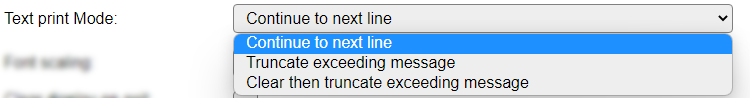
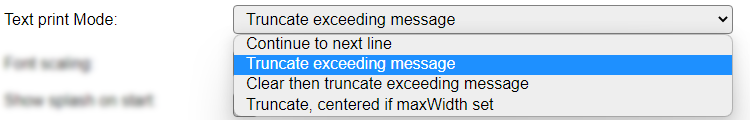
[P095] Update documentation

diff --git a/docs/source/Plugin/P095.rst b/docs/source/Plugin/P095.rst
@@ -112,6 +112,7 @@ Available options:
 * *Continue to next line* Simply 'prints' all text to the display, with automatic overflow to the next line(s) if the text doesn't fit on the current line.
 * *Truncate exceeding message* Display the provided message, but any excess at the right border of the display is discarded.
 * *Clear then truncate exceeding message* Clear from the current cursor position to the end of the display, then display the provided message, but any excess at the right border of the display is discarded.
+* *Truncate, centered if maxWidth set* Like *Truncate exceeding message* but centered in available width when that is provided (in ``txtfull`` subcommand).
 
 Default setting is *Continue to next line*.
 
